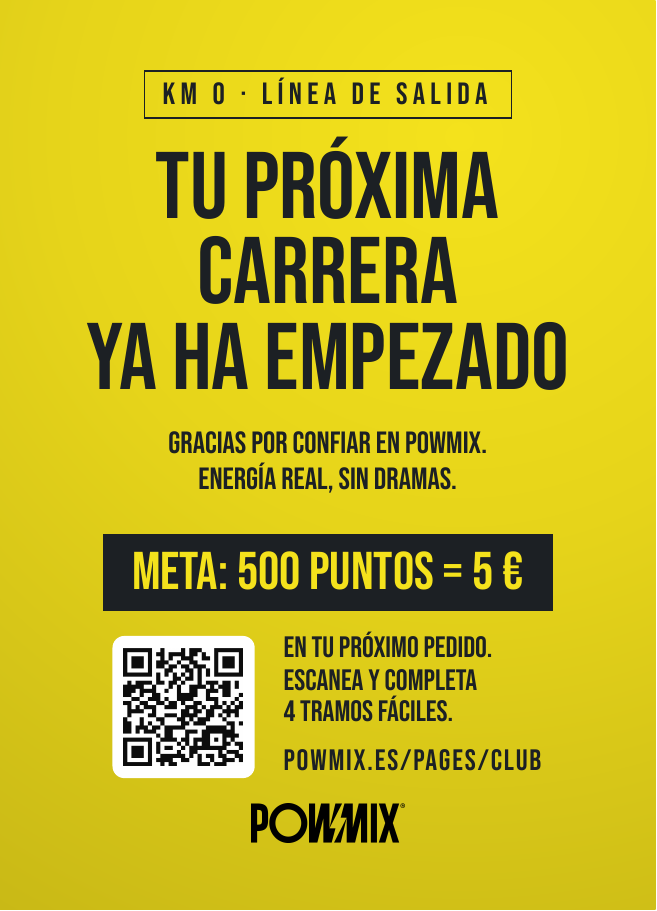
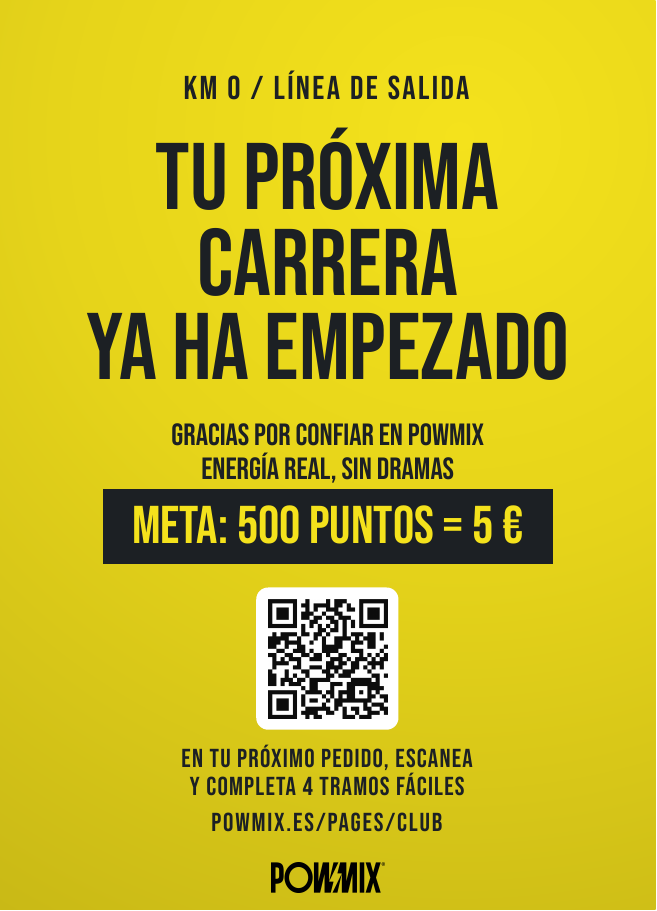
Refine A6 card layout
Claude-Session: https://claude.ai/code/session_01ESgrYfWtbUyydYC5uboLBi

diff --git a/a6/a6.html b/a6/a6.html
@@ -3,50 +3,50 @@
 @page{size:111mm 154mm;margin:0}
 *{margin:0;box-sizing:border-box}
 body{font-family:Bebas,sans-serif;color:#1c2024}
-.p{width:111mm;height:154mm;position:relative;overflow:hidden;page-break-after:always;padding:12mm 11mm 10mm;display:flex;flex-direction:column;align-items:center;text-align:center}
+.p{width:111mm;height:154mm;position:relative;overflow:hidden;page-break-after:always;padding:12mm 11mm 12mm;display:flex;flex-direction:column;align-items:center;text-align:center}
 .y{background:radial-gradient(circle at 70% 15%,#f4e21c 0,#e6d41a 45%,#c9b916 100%)}
 .g{background:radial-gradient(circle at 50% 25%,#f0f0f0,#d9d9d9 70%,#c4c4c4)}
-.tag{font-size:5.2mm;letter-spacing:.9mm;border:.5mm solid #1c2024;padding:.6mm 3mm}
+.tag{font-size:5.6mm;letter-spacing:.4mm}
 .big{font-size:16mm;line-height:.9;margin-top:5mm}
 .sub{font-size:5.2mm;margin-top:4mm;line-height:1.15}
 .bar{background:#1c2024;color:#f4e21c;padding:1mm 5mm;white-space:nowrap}
 .pts{font-size:9mm;margin-top:auto}
-.row{display:flex;align-items:center;gap:5mm;margin-top:4mm;text-align:left}
-.row .t{font-size:5mm;line-height:1.1}
-.row .u{font-size:5mm;letter-spacing:.3mm;margin-top:2mm}
+.row{display:flex;flex-direction:column;align-items:center;gap:2.5mm;margin-top:4mm;text-align:center}
+.row .t{font-size:4.4mm;line-height:1.1;letter-spacing:.2mm}
+.row .u{font-size:4.4mm;letter-spacing:.3mm;margin-top:1mm}
 .qr{width:24mm;height:24mm;background:#fff;padding:2mm;border-radius:2mm}
 .qr img{width:100%;height:100%}
-.logo{margin-top:4mm}.logo img{width:26mm}
+.logo{margin-top:4mm}.logo img{width:19mm}
 h2{font-size:12mm;line-height:.9}
 .steps{width:100%;margin-top:3mm;text-align:left}
 .step{display:flex;align-items:center;gap:3mm;border-bottom:.35mm solid rgba(28,32,36,.35);padding:1.4mm 0;font-size:5.2mm}
-.step b{font-weight:400;background:#1c2024;color:#f4e21c;padding:0 2.5mm;font-size:5mm;letter-spacing:.4mm;min-width:15mm;text-align:center}
+.step b{font-weight:400;background:#1c2024;color:#f4e21c;display:flex;align-items:center;justify-content:center;width:15mm;height:6.6mm;padding:.7mm 0 0 .4mm;line-height:1;font-size:5mm;letter-spacing:.4mm}
 .step span{flex:1}.step i{font-style:normal;font-size:6mm}
 .meta{font-size:5.6mm;margin-top:4mm;width:100%}
 .note{font-size:4.2mm;margin-top:2mm}
-.gest{margin-top:auto;width:100%;background:#f4e21c;display:flex;align-items:center;gap:4mm;padding:3mm 4mm;text-align:left}
+.main{flex:1;display:flex;flex-direction:column;align-items:center;justify-content:center;width:100%}.gest{margin-top:0;margin-bottom:-2mm;width:100%;background:#f4e21c;display:flex;align-items:center;gap:4mm;padding:3mm 4mm;text-align:left}
 .gest .t{flex:1;font-size:5.8mm;line-height:1}
 .gest .t small{display:block;font-size:4.6mm;letter-spacing:.3mm;margin-top:1.5mm}
 .gest .qr{width:20mm;height:20mm;padding:1.5mm}
 </style></head><body>
 <div class="p y">
- <div class="tag">KM 0 · LÍNEA DE SALIDA</div>
+ <div class="tag">KM 0 / LÍNEA DE SALIDA</div>
  <div class="big">TU PRÓXIMA<br>CARRERA<br>YA HA EMPEZADO</div>
- <div class="sub">GRACIAS POR CONFIAR EN POWMIX.<br>ENERGÍA REAL, SIN DRAMAS.</div>
+ <div class="sub">GRACIAS POR CONFIAR EN POWMIX<br>ENERGÍA REAL, SIN DRAMAS</div>
  <div class="bar pts">META: 500 PUNTOS = 5 €</div>
- <div class="row"><div class="qr"><img src="qr.png"></div><div><div class="t">EN TU PRÓXIMO PEDIDO.<br>ESCANEA Y COMPLETA<br>4 TRAMOS FÁCILES.</div><div class="u">POWMIX.ES/PAGES/CLUB</div></div></div>
+ <div class="row"><div class="qr"><img src="qr.png"></div><div><div class="t">EN TU PRÓXIMO PEDIDO, ESCANEA<br>Y COMPLETA 4 TRAMOS FÁCILES</div><div class="u">POWMIX.ES/PAGES/CLUB</div></div></div>
  <div class="logo"><img src="logo.png"></div>
 </div>
 <div class="p g">
- <h2>EL RECORRIDO</h2>
+ <div class="main"><h2>EL RECORRIDO</h2>
  <div class="steps">
   <div class="step"><b>KM 1</b><span>CREA TU CUENTA</span><i>+100</i></div>
   <div class="step"><b>KM 2</b><span>SIGUE A @POWMIX_OFFICIAL</span><i>+25</i></div>
   <div class="step"><b>KM 3</b><span>RESPONDE 3 PREGUNTAS</span><i>+50</i></div>
   <div class="step"><b>KM 4</b><span>SUBE TU CAJA A STORIES #FUELREAL</span><i>+150</i></div>
  </div>
- <div class="bar meta">META · 500 PTS = 5 € DE DTO.</div>
- <div class="note">4 ACCIONES + PEDIDO DE 35 € = 500 PUNTOS</div>
+ <div class="bar meta">META: 500 PUNTOS = 5 € DE DESCUENTO</div>
+ <div class="note">4 ACCIONES + PEDIDO DE 35 € = 500 PUNTOS</div></div>
  <div class="gest"><div class="t">TU GESTO BONITO DEL DÍA<small>DEJA TU OPINIÓN EN GOOGLE Y AYUDA A UNA MARCA PEQUEÑA</small></div><div class="qr"><img src="qr_google.png"></div></div>
  <div class="logo"><img src="logo.png"></div>
 </div>
